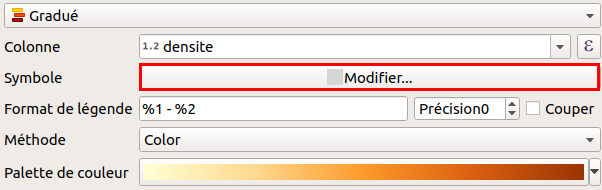
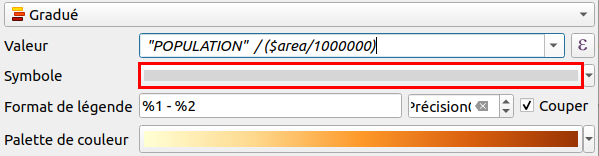
maj parties 9 et 10

diff --git a/10_01_representation.php b/10_01_representation.php
@@ -20,6 +20,7 @@
 							<li><a href="#X11b">Faire varier la taille de points en fonction d'un champ</a>
 							<li><a href="#X11c">Surface, rayon, Flannery... Pour en savoir plus sur les différentes méthodes</a>
 							<li><a href="#X11d">Les plus petits devant ! Modifier l'ordre d'affichage des symboles</a>
+							<li><a href="#X11e">C'est mieux avec la légende</a>
 						</ul>
 					</li>
 					<li><a href="#X12">Représenter des variables relatives à des surfaces : cartes choroplèthes</a>
@@ -29,6 +30,12 @@
 						</ul>
 					</li>
 					<li><a href="#X13">Représenter des quantités ou des effectifs : cartes en semis de points</a></li>
+                    <li><a href="#X14">Connaître la distribution de ses données</a>
+					    <ul class="listesoustitres">
+							<li><a href="#X14a">Histogramme simple</a>
+							<li><a href="#X14b">Histogramme avec l'extension Plotly</a>
+						</ul>
+					</li>
 				</ul>
 				
 
@@ -43,6 +50,9 @@
 					<li><em>Manuel de cartographie</em> de Nicolas Lambert et Christine Zanin</li>
 					<li><em>Pratiques de la cartographie</em> d'Anne Le Fur</li>
 				</ul>
+				
+				
+				    
 				
 				<h3><a class="titre" id="X11">Représenter des quantités ou des effectifs : carte en symboles proportionnels</a></h3>
 				
@@ -194,6 +204,38 @@
 								<img src="illustrations/tous/10_01_prop_visu.png" alt="Une partie de la carte en cercles proportionnels" width="40%">
 							</a>
 					   </figure>
+					   
+					<h4><a class="titre" id="X11e">C'est mieux avec la légende</a></h4>
+					   
+					   <p>QGIS gère normalement les légendes pour les différents types de représentation, mais les cartes en cercles proportionnels présentent un cas particulier où nous devrons nous-même créer la légende.</p>
+					   <p>Cette fonctionnalité a été rajoutée récemment, ce qui illustre bien le fait que les logiciels SIG ne sont pas initialement pensés comme des logiciels de cartographie (mais ils ont aujourd'hui tellement de possibilité en ce sens que ce serait dommage de se priver&nbsp;!).</p>
+					   
+					   <div class="manip">
+					       <p>Ouvrez la fenêtre des propriétés, rubrique <b>Symbologie</b>, et cliquez en bas à droite sur <b>Avancé</b> pour choisir <b>Légende pour la Taille définie par des données</b> :</p>
+					       <figure>
+								<a href="illustrations/tous/10_01_legende_symbolprop_acces.png" >
+									<img src="illustrations/tous/10_01_legende_symbolprop_acces.png" alt="Fenêtre des propriétés, symbologie, clic sur le bouton avancé" width="100%">
+								</a>
+							</figure>
+					   
+					       <p>Sous cet intitulé un peu obscur se cache une légende paramétrable pour notre carte en cercles proportionnels :</p>
+					       <figure>
+    							<a href="illustrations/tous/10_01_legende_symbolprop.png" >
+    								<img src="illustrations/tous/10_01_legende_symbolprop.png" alt="Fenêtre de la légende des symbols proportionnels" width="70%">
+    							</a>
+    						</figure>
+    						
+    						<p>Dans la partie gauche, on peut spécifier les différents paramètres, un aperçu est mis à jour automatiquement dans la partie droite.</p>
+    						<ul>
+    						  <li class="espace">Par défaut, la légende n'est pas activée. Nous allons choisir ici le mode <b>Légende repliée</b>, où les cercles sont superposés. Dans le mode <b>Eléments de légende séparés</b>, les cercles sont au-dessous les uns des autres, mais se retrouvent souvent tronqués</li>
+    						  <li class="espace">On peut donner un titre à la légende, par exemple <b>Population</b>, par défaut il s'agit du nom de la couche</li>
+    						  <li class="espace">Cochez la case <b>Taille manuelle des classes</b> pour définir vous-même quelles valeurs comportera la légende</li>
+    						  <li class="espace">Cliquez ensuite sur le bouton <b>+</b> pour ajouter ces valeurs. On recommande généralement de mettre les valeurs minimales et maximales, ainsi qu'une ou deux valeurs intermédiaires. Ici, la valeur minimale étant de 1, elle n'est pas montrée. Notez que vous pouvez choisir quelle sera la valeur affichée dans la légende en modifiant l'étiquette&nbsp;!</li>
+    						 </ul>
+    						 <p>Cliquer ensuite sur OK, fermez la fenêtre des propriétés. La légende est visible dans la liste des couches, et pourra également être affichée dans une <a href="10_02_mise_en_page.php">mise en page</a>.</p>
+					   
+					   </div>
+					   
 						
 				<h3><a class="titre" id="X12">Représenter des variables relatives à des surfaces : cartes choroplèthes</a></h3>
 					
@@ -202,7 +244,7 @@
 						<a href="illustrations/tous/10_01_carte_choroplethe.png" >
 							<img src="illustrations/tous/10_01_carte_choroplethe.png" alt="Exemple de carte choroplethe : carte de densité de population par commune, France métropolitaine, discrétisation par quantiles" width="90%">
 						</a>
-						<figcaption>Exemple de carte choroplethe montrant la densité de population par commune en France métropolitaine, avec une discrétisation par quantiles.</figcaption>
+						<figcaption>Exemple de carte choroplethe réalisée sous QGIS montrant la densité de population par commune en France métropolitaine, avec une discrétisation par quantiles.</figcaption>
 				   </figure>
 					
 					
@@ -241,14 +283,14 @@
 							</figure>
 							<ul>
     							<li class="espace">Sélectionnez le style <b>Gradué</b> pour discrétiser les valeurs</li>
-    							<li class="espace">Choisissez la colonne <b>densite</b> créée précédemment</li>
+    							<li class="espace">Choisissez la colonne <b>densite</b> créée précédemment (notez que l'on pourrait aussi cliquer sur le bouton Expression pour calculer ici la densité, sans créer de nouveau champ)</li>
     							<li class="espace">Choisissez éventuellement une palette de couleur</li>
     							<li class="espace">Sélectionnez un <b>mode de discrétisation</b> (quantile, intervalles égaux, Jenks) et un <b>nombre de classes</b></li>
     							<li class="espace">Cliquez sur <b>Classer</b> pour voir apparaître les classes avec les couleurs qui leur sont attribuées</li>
 							</ul>
 							<p>Appliquez ensuite les changements. Vous pouvez tester différents modes de discrétisation et nombres de classes.</p>
 							<p>Pour voir l'effectif de chaque classe, clic droit sur le nom de la couche &#8594; <b>Montrer le décompte des entités</b>.</p>
-							<p>Pour un meilleur rendu, vous pouvez supprimer les bordures des communes en cliquant sur <b>Modifier...</b> puis sur <b>Remplissage simple &#8594; Style de trait &#8594; Pas de ligne</b>.</p>
+							<p>Pour un meilleur rendu, vous pouvez supprimer les bordures des communes en cliquant sur le symbole puis sur <b>Remplissage simple &#8594; Style de trait &#8594; Pas de ligne</b>.</p>
 							<figure>
 								<a href="illustrations/tous/10_01_enlever_bordure.png" >
 									<img src="illustrations/tous/10_01_enlever_bordure.png" alt="Cliquer sur Modifier pour enlever les bordures" width="70%">
@@ -309,6 +351,54 @@
 								<img src="illustrations/tous/10_01_pts_aleatoires_visu.png" alt="Exemple de carte en semis de points" width="400">
 							</a>
 						</figure>
+						
+					<h3><a class="titre" id="X14">Connaître la distribution de ses données</a></h3>
+				
+				        <p>Il peut être utile pour mieux comprendre et représenter ses données de connaître leur distribution, par exemple avec un histogramme de fréquence. Ceci peut aider notamment à définir des classes pour une discrétisation.</p>
+				        <p>Il est plus logique de faire cette étape avant de choisir un mode de représentation&nbsp;; néanmoins, parce-qu'il est plus simple de l'aborder en sachant déjà discrétiser des données dans QGIS, cette partie arrive en fin de chapitre.</p>
+				        <p>Nous allons voir 2 méthodes, une directement dans la fenêtre des propriétés de la couche, et l'autre avec l'extension Plotly.</p>
+    			        <p>Ici, nous allons prendre l'exemple de la densité de population pour les communes de France métropolitaine.</p>
+                        <div class="manip">
+                            <p>Si ce n'est pas déjà fait, ajoutez à votre projet la couche <em class="data"><a href="donnees/TutoQGIS_10_Representation.zip">COMMUNE.shp</a></em> située dans le dossier <b>TutoQGIS_10_representation/donnees</b>.</p>
+                        </div>	
+    				
+    				    <h4><a class="titre" id="X14a">Histogramme simple</a></h4>
+    				    
+    				        <p>Il existe une méthode simple directement inclue dans QGIS pour avoir un aperçu de la distribution de vos données.</p>
+    				        
+    				        <div class="manip">
+    				            <p>Ouvrez les propriétés de la couche de communes, et <a href="10_01_representation.php#X12b">choisissez le mode gradué</a> pour le champ densité <a href="10_01_representation.php#X12a">créé précédemment</a> avec une discrétisation par exemple par quantiles.
+    				            <p>Cliquez ensuite sur l'onglet <b>Histogramme</b> puis sur <b>Charger les valeurs</b> :</p>
+    				            <figure>
+        							<a href="illustrations/tous/10_01_histogramme.png" >
+        								<img src="illustrations/tous/10_01_histogramme.png" alt="Histogramme dans la fenêtres des propriétés" width="85%">
+        							</a>
+        						</figure>
+    				        </div>
+    				        
+    				        <p>On ne voit pas grand chose... L'axe des x est créé en fonction des valeurs minimales et maximales, et la plupart des communes ayant une densité inférieure à 1000 habitants / km&#178;, elles ne sont pas visibles ici.</p>
+    				        <p>Les axes ne sont pas paramétrables et il n'est pas possible de zoomer, ce qui est une limite importante de cet outil. Testons néanmoins pour un jeu de données ne présentant pas de valeur maximale extrême, par exemple pour les communes de densité inférieure à 600 habitants/km&#178;.</p>
+    				        <p>Pour cela, nous allons <a href="01_02_info_geo.php#I23c">filtrer les données</a>, ce qui ne modifie pas la couche elle-même.</p>
+    				        
+    				        <div class="manip">
+    				            <p>Toujours dans la fenêtre des propriétés, rendez-vous dans l'onglet <b>Source</b> et cliquez sur le bouton <b>Constructeur de requête</b> tout en bas de la fenêtre.</p>
+        						<p>Filtrez uniquement les communes de densité < 300 habitants/km&#178;  avec la requête <b>"densite" < 300</b>. Cliquez ensuite sur <b>OK</b>.</p>
+        						<p>Retournez dans la rubrique <b>Symbologie</b>, onglet <b>Classes</b> et cliquez sur le bouton <b>Classer</b> pour mettre à jour les classes. Dans l'onglet <b>Histogramme</b>, cliquez sur <b>Charger les valeurs</b> pour mettre à jour l'histogramme.</p>
+        						<figure>
+        							<a href="illustrations/tous/10_01_histogramme_filtre.png" >
+        								<img src="illustrations/tous/10_01_histogramme_filtre.png" alt="Histogramme de fréquence pour les communes de densite<300" width="85%">
+        							</a>
+        						</figure>
+        						<p>On y voit plus clair&nbsp;! Au passage, profitez-en pour cocher les cases <b>moyenne</b> et <b>écart-type</b>. Et vous pouvez ainsi vous rendre compte de l'intérêt principal de cet histogramme : les couleurs sont celles de la discrétisation choisie, et il est possible de modifier les bornes des classes directement dans l'histogramme.</p>
+        						<p>Testez-le en faisant glisser un des traits correspondant à une borne. En cliquant sur le bouton <b>Appliquer</b>, les changements sont visibles dans la fenêtre de QGIS.</p>
+        						<p>Ceci peut être très utile pour appliquer la méthode des <b>seuils observés</b> : délimiter les classes à la main, en se basant sur les ruptures visibles dans l'histogramme.</p>
+        						
+    				        </div>
+    				        <p class="note">Filtrer les données est très utile, mais parfois on oublie qu'un filtre est actif. N'oubliez pas si vous souhaitez à nouveau travailler sur l'ensemble de vos données d'effacer la requête&nbsp;!</p>
+    				    
+    				    <h4><a class="titre" id="X14b">Histogramme avec l'extension Plotly</a></h4>
+    				    
+    				        <p>Une autre méthode, permettant plus de souplesse au niveau de la représentation de l'histogramme, mais n'étant pas liée aux classes, consiste à utiliser l'extension <a class="ext" target="_blank" href="https://github.com/ghtmtt/DataPlotly">Plotly</a> créée par Matteo Ghetta (Faunalia).</p>
 						
 					
 					<p>Nous avons vu ici trois manières de représenter une même donnée : la population des communes. Il en existe beaucoup d'autres&nbsp;!</p>

diff --git a/01_02_info_geo.php b/01_02_info_geo.php
@@ -25,6 +25,7 @@
 						<ul class= "listesoustitres">
 							<li><a href="#I23a" >Changer la représentation d'une couche</a></li>
 							<li><a href="#I23b" >Connaître l'emplacement d'une couche</a></li>
+							<li><a href="#I23c" >Filtrer les données</a></li>
 						</ul>
 					</li>
 					<li><a href="#I24">Ajout d'une couche raster</a>
@@ -195,6 +196,37 @@
 							</div>
 						</div>
 						<p class="note">Vous pouvez aussi vérifier l'emplacement d'une couche en passant simplement la souris sur son nom dans le panneau des couches !</p>
+						
+					<h4><a class="titre" id="I23c">Filtrer les données</a></h4>
+					
+					   <p>Le logiciel offre également la possibilité de de <b>filtrer les données</b>. Cette opération ne modifie pas les données elles-mêmes, mais seules les données filtrées seront affichées aussi bien sur la carte que dans la table attributaire. Toutes les opérations effectuées sur la couche ne le seront que sur les données filtrées.</p>
+					   <p>Ceci est très utile pour masquer temporairement certaines données. Si vous souhaitez vraiment ne travailler que sur une partie des données, il est peut-être plus clair de créer une nouvelle couche contenant uniquement les données étudiées.</p>
+					   <p>Ici, nous allons filtrer uniquement le département du Finistère.</p>
+					   
+					   <div class="manip">
+					       <p>Faites un clic droit sur la couche de départements &#8594; <b>Filtrer...</b></p>
+					       <figure>
+								<a href="illustrations/tous/1_2_filtrer.png" >
+									<img src="illustrations/tous/1_2_filtrer.png" alt="Fenêtre du constructeur de requêtes" width="80%">
+								</a>
+							</figure>
+							<p>Nous allons ici construire une requête simple pour sélectionner le département du Finistère. Les requêtes sont vues plus en détail <a href="06_01_req_attrib.php" >ici</a> !</p>
+							<ul>
+							 <li class="espace">Double-cliquez sur le champ <b>NOM_DEP</b> pour le faire apparaître en bas dans l'expression de filtrage</li>
+							 <li class="espace">Cliquez sur l'opérateur <b>LIKE</b></li>
+							 <li class="espace">Cliquez sur le bouton <b>Toutes</b> à droite pour voir toutes les valeurs possibles pour le champ NOM_DEP, puis double-cliquez sur <b>FINISTERE</b></li>
+							</ul>
+							<p>Cliquez ensuite sur le bouton <b>Tester</b> : la requête renvoie un résultat. Cliquez sur <b>OK</b>.</p>
+							<figure>
+								<a href="illustrations/tous/1_2_filtrer_resultat.png" >
+									<img src="illustrations/tous/1_2_filtrer_resultat.png" alt="couche et table après filtre" width="100%">
+								</a>
+							</figure>
+							<p>Seul le département du Finistère est visible dans la carte et la couche. Notez qu'un petit entonnoir à droite du nom de la couche indique qu'un filtre est actif.</p>
+							<p>Filtrer ses données est très pratique, mais le risque est d'oublier qu'on ne travaille pas sur toutes les données&nbsp;!</p>
+							<p>Pour désactiver le filtre, clic droit sur la couche de départements &#8594; <b>Filtrer...</b>, cliquer sur <b>Effacer</b> puis sur <b>OK</b>.</p>
+					   </div>
+					   <p class="note">Le filtres est également accessible à partir des propriétés de la couche &#8594; rubrique Source &#8594; bouton Constructeur de requête tout en bas de la fenêtre.</p>
 						
 						
 				<h3><a class="titre" id="I24">Ajout d'une couche raster</a></h3>		

diff --git a/index_az.php b/index_az.php
@@ -43,7 +43,7 @@
 						<li><a href="#U">U</a></li>
 						<li><a href="#V">V</a></li>
 						<li><a href="#W">W</a></li>
-						<li>X</li>
+						<li><a href="#X">X</a></li>
 						<li>Y</li>
 						<li><a href="#Z">Z</a></li>
 					</ul>
@@ -187,12 +187,11 @@
 							<li class="index_02"><a href="06_01_req_attrib.php#VI11">Expression</a></li>
 							<li class="index_02">Extension
 								<ul>
-									<li class="index_03"><a href="04_02_preliminaires.php#IV22b">Activer une extension</a></li>
+									<li class="index_03"><a href="06_04_req_sql.php#VI42a">Activer une extension</a></li>
 									<li class="index_03"><a href="04_06_calage_autre_couche.php#IV63">GeoSearch</a></li>
 									<li class="index_03"><a href="07_01_creation_suppression.php#VII13">Gestionnaire de table</a></li>
-									<li class="index_03"><a href="04_06_calage_autre_couche.php#IV61">Installer une extension</a></li>
-									<li class="index_03"><a href="04_06_calage_autre_couche.php#IV61">OpenLayers</a></li>
-									<li class="index_03"><a href="04_06_calage_autre_couche.php#IV61">QuickMapServices</a>, voir aussi <a href="04_06_calage_autre_couche.php#IV62">ici</a></li>
+									<li class="index_03"><a href="03_04_fonds_carte.php#III43">Installer une extension</a></li>
+									<li class="index_03"><a href="03_04_fonds_carte.php#III43">QuickMapServices</a></li>
 									<li class="index_03"><a href="03_05_donnees_osm.php#III55">QuickOSM</a></li>
 									<li class="index_03"><a href="06_02_req_spatiales.php#VI21b">Requête spatiale</a></li>
 								</ul>
@@ -203,6 +202,7 @@
 					<li class="index_01" id="F">F
 						<ul>
 							<li class="index_02"><a href="03_05_donnees_osm.php#III54">Fichier de style QML ou SLD</a></li>
+							<li class="index_02"><a href="01_02_info_geo.php#I23c">Filtrer les données</a></li>
 							<li class="index_02"><a href="10_02_mise_en_page.php#X22d">Flèche Nord</a></li>
 							<li class="index_02"><a href="03_02_donnees_flux.php">Flux</a>
 								<ul>
@@ -558,6 +558,12 @@
 					<li class="index_01" id="W">W
 						<ul>
 							<li class="index_02"><a href="02_02_coord.php#II21b">WGS84 (SCR)</a></li>
+						</ul>
+					</li>
+					
+					<li class="index_01" id="X">X
+						<ul>
+							<li class="index_02"><a href="03_04_fonds_carte.php#III42">XYZ Tiles</a></li>
 						</ul>
 					</li>
 					
